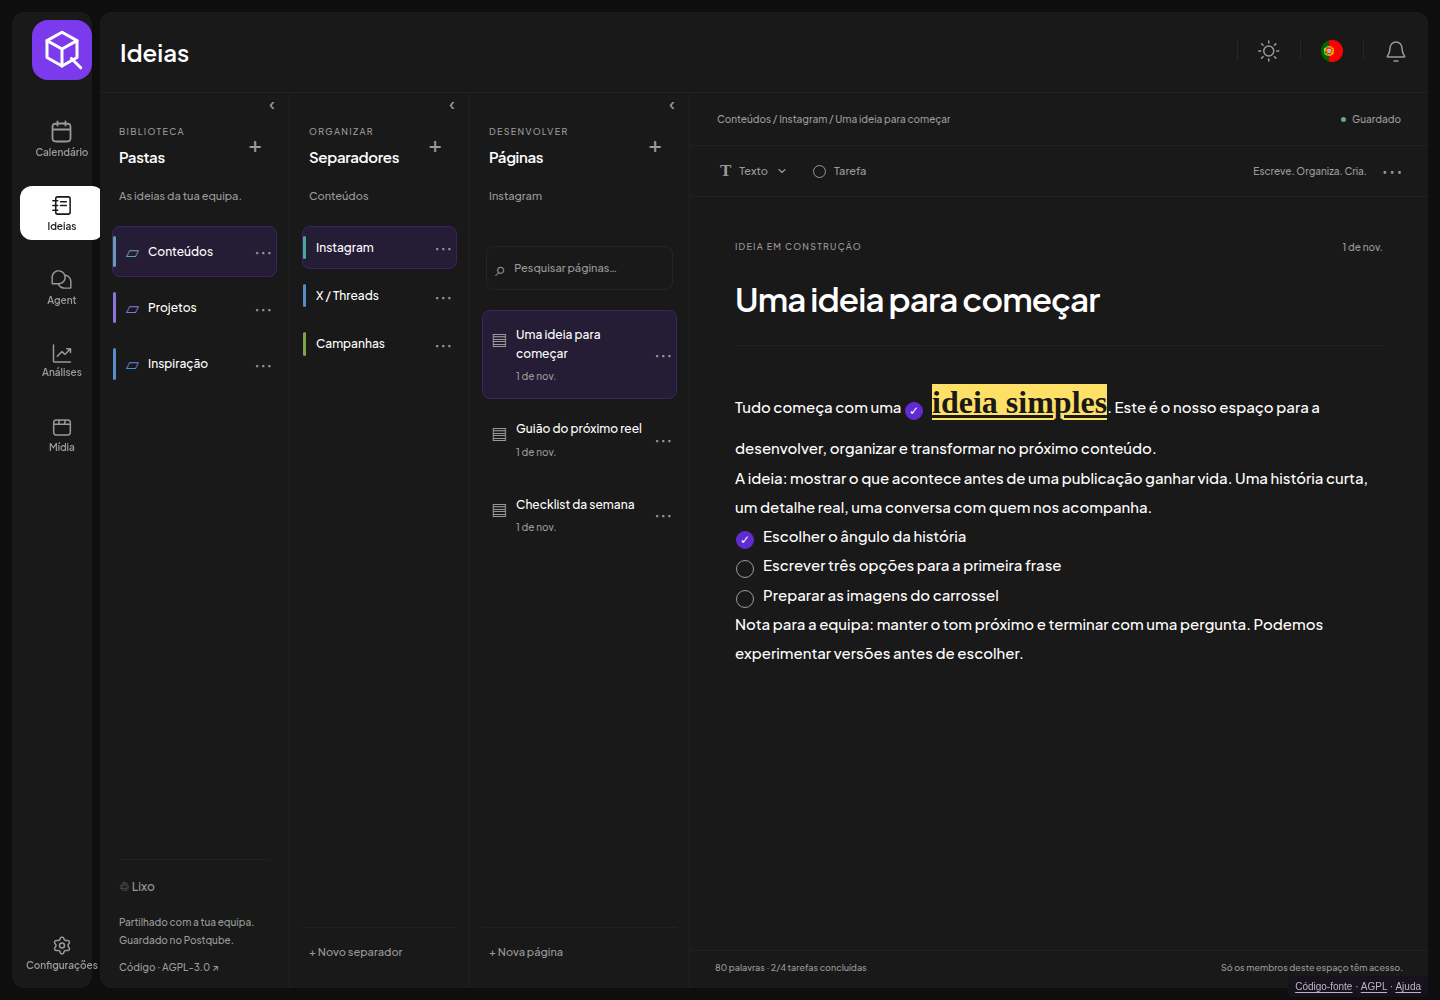
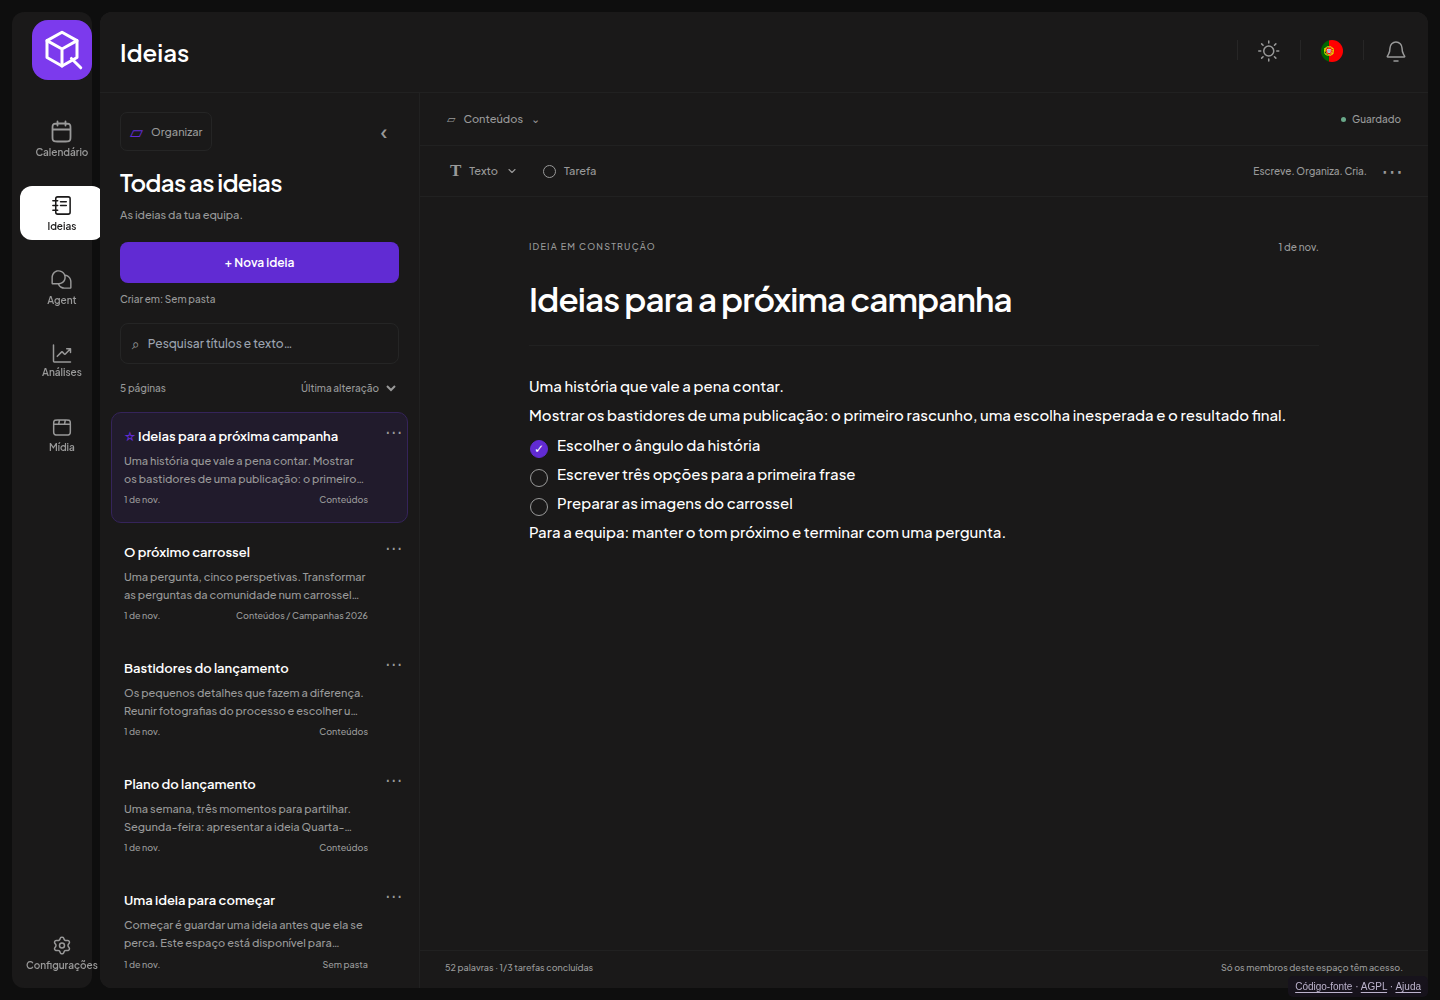
Publish validated flexible Ideas guide, screenshots and 0.5 runtime identity

diff --git a/docs/postqube/RELEASE-BETA.md b/docs/postqube/RELEASE-BETA.md
@@ -1,31 +1,39 @@
-# Postqube 0.4.0 beta 1 — Ideas formatting and languages
+# Postqube 0.5.0 beta 1 — write first, organize later
 
-Ideas now responds to the same language selector as the rest of the app. Its menu,
-workspace, dates, save states, dialogs and text controls use native i18next resources
-for all 14 supported languages. User notes remain unchanged.
+Ideas now supports pages at the workspace root, directly inside a folder, or in
+optional nested folders. New idea opens a blank page immediately, without a folder
+or naming prerequisite. Existing sections and notes keep their original data.
 
-Folders and sections have thin colored accents. The Text menu adds fonts, size,
-bold, italic, underline, strike, highlight, text color, clear formatting and undo/redo.
-Structured text runs persist in existing native PostgreSQL note records. No extra
-service or schema migration is required.
+The native desktop view defaults to a page list and editor, with optional collapsible
+organization. Mobile uses a list and Back instead of permanent hierarchy tabs.
+Adds global title/content search, previews, location labels, sorting, shared pins,
+Move and native drag/drop, automatic first-line titles and browser preferences for
+resuming work. The same native session, workspace, theme, language and shell remain.
 
 ## Validation
 
-- Eight regression tests passed; the complete native frontend/backend build and
-  route type checking passed on the VPS and in GitHub Actions.
-- Browser tests selected all 14 languages through the real language modal. Menu,
-  columns and Text labels changed without reloading or replacing the editor.
-- Calendar ↔ Ideas preserved the same document, header and sidebar.
-- Size changes preserved font/emphasis/highlight; undo/redo, autosave and reopening
-  retained formatting. Task insertion at the caret preserved the surrounding text.
-- Desktop and mobile at 360/390px, native light/dark themes and dropdown bounds
-  were visually inspected. Screenshots contain disposable demonstration content.
-- Native API validation rejected unsupported fonts, CSS URL values and mismatched
-  formatted text. Existing native authorization/workspace boundaries remain in use.
-- Protected database archives and their hashes were verified; native backups include
-  the Ideas table and data. This is not a claim of a full off-server restore drill.
-- Disposable accounts and test notes were removed after testing.
+- Twelve regression tests and complete native frontend/backend builds passed.
+- Private API checks covered root/direct/nested/legacy pages, content search, literal
+  wildcard handling, workspace isolation, team sharing, CSRF, revisions, pins,
+  self/descendant/concurrent cycle rejection, moves and trash/restoration.
+- Browser tests verified quick capture, automatic/manual titles, optional folders,
+  movement, search outside the current folder, sorting, pins and restored preferences.
+- All 14 language choices updated native controls without replacing the editor or
+  changing author text. Calendar ↔ Ideas retained the document, sidebar and header.
+- Exact replacement text and line breaks survived successful and simulated-failed
+  metadata operations, autosave and reopening. No unhandled promise rejections.
+- Fresh-page native pointer drags moved pages and folders without injected handlers.
+- Desktop, tablet, 360/390px layouts and both themes were inspected. A reduced visual
+  viewport kept the editor and all formatting actions within the keyboard-visible
+  area. Responsive title tests verified complete lines after width/panel changes
+  and portrait/landscape transitions. Tests used browser emulation, not physical phones.
+- The additive database migration only adds a pinned boolean. Transactional
+  before/after hashes confirmed existing rows' original fields were unchanged.
+- Protected database archives, source snapshots and hashes were verified. This is
+  not a claim of a complete off-server restore drill.
+- Screenshots use disposable demonstration notes. Test accounts and records were removed.
 
-[Changes and checks](https://github.com/drdrey7/postqube/pull/4) ·
-[Native build check](https://github.com/drdrey7/postqube/actions/runs/41274578981) ·
-[Ideas guide](IDEAS.md) · [Release metadata](https://github.com/drdrey7/postqube/blob/postqube-0.4.0-beta.1/postqube/release.json)
+[Ideas guide](IDEAS.md) ·
+[Feature changes](https://github.com/drdrey7/postqube/pull/5) ·
+[Responsive title follow-up](https://github.com/drdrey7/postqube/pull/6) ·
+[Release metadata](https://github.com/drdrey7/postqube/blob/postqube-0.5.0-beta.1/postqube/release.json)

diff --git a/README.md b/README.md
@@ -24,7 +24,7 @@ operations files are easy to find. See [provenance and changes](UPSTREAM.md).
 | --- | --- |
 | Email/password signup; optional company | Verified with disposable accounts |
 | Separate workspaces | Verified |
-| Ideas: folders, sections, pages, tasks | Native page/API, shared within each workspace |
+| Ideas: instant notes, optional folders, search and tasks | Native page/API, shared within each workspace |
 | Desktop/mobile calendar | Visually checked at 1440×1000 and 390×844 |
 | X connection and native API | Verified; paid live publishing not retested |
 | Instagram image/carousel/Reel/Story support | Native upstream capability; connection not activated |
@@ -59,8 +59,10 @@ the root upstream Compose file unchanged as a hardened public deployment.
 
 ## Ideas for your team
 
-Folders → Sections → Pages → Editor, with text, circular task checkboxes and
-autosave. Shared with current workspace members, with separate workspaces isolated.
+Create a page immediately, keep it unfiled or organize it in optional folders and
+subfolders. Search all titles/text, move pages, pin important ideas and resume where
+you stopped. Continuous text, formatting, circular tasks and autosave are native.
+Shared with current workspace members; separate workspaces remain isolated.
 
 ![Ideas desktop — disposable demonstration content](docs/postqube/assets/ideas-desktop.png)
 

diff --git a/docs/postqube/IDEAS.md b/docs/postqube/IDEAS.md
@@ -12,6 +12,8 @@ no folder, subfolder or naming dialog is required.
 
 Screenshots use disposable demonstration text; never customer notes.
 
+![Mobile page list](assets/ideas-mobile-list.png)
+
 ## Optional organization
 
 All three workflows are supported:
@@ -28,6 +30,8 @@ intact. Nothing is moved merely by installing the update.
 your folder tree and Trash. Unfiled is a view of root pages; it is not a compulsory
 hidden folder. Creating a page uses the selected folder, or the workspace root
 when viewing All ideas, Unfiled or Pinned. The creation location is displayed.
+
+![Optional organization panel](assets/ideas-organization.png)
 
 Use **Move to…** in the page/folder menu or the note's location at the top.
 The desktop also supports dragging pages or folders onto a folder, or onto
